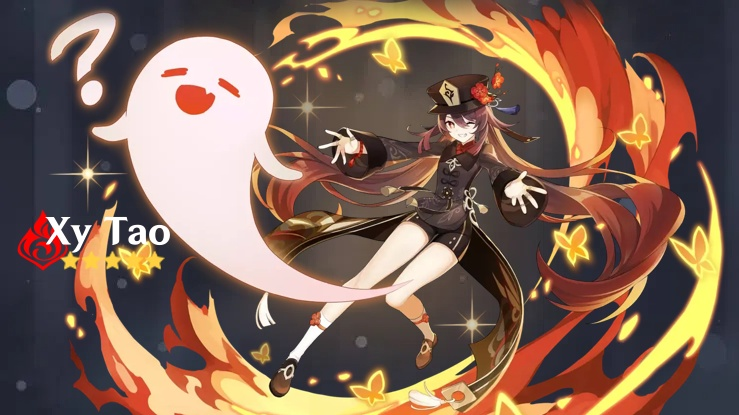
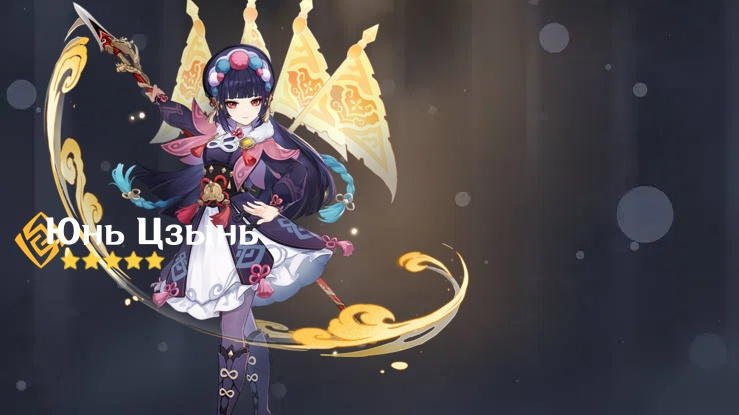
Картинка молитв

diff --git a/image.py b/image.py
@@ -2,39 +2,54 @@ from PIL import Image
 from PIL import ImageFont
 from PIL import ImageDraw
 
-#загрузка фонового изображения
-background = Image.open('photo/banner.png')
+import os
+import sqlite3
 
-#загрузка и изменеине размера фото персонажа
-picture = Image.open('photo/hutao.webp')
-width, height = (picture.size)
-newHeight = 500
-newWidth = width * newHeight // height
-size=(newWidth,newHeight)
-pictureResize = picture.resize(size)
-Image.Image.paste(background, pictureResize, (42, -20), mask=pictureResize)
+dir = os.path.abspath(os.curdir)
 
-#наложение элемента
-pictureelem = Image.open('photo/piro.png')
-width, height = (pictureelem.size)
-newHeight = 70
-newWidth = width * newHeight // height
-size=(newWidth,newHeight)
-pictureResize = pictureelem.resize(size)
-Image.Image.paste(background, pictureResize, (6, 205), mask=pictureResize)
+sqlite_connection = sqlite3.connect('genshin.db')
+cursor = sqlite_connection.cursor()
 
-#наложение текста
-draw = ImageDraw.Draw(background)
-font = ImageFont.truetype("font/Default_JP.ttf", 35)
-draw.text((45, 210),"Ху Тао",(255,255,255),font=font)
+cursor.execute("SELECT id, name, image, rarity, element FROM pers order by id")
 
-#наложение звёздочек
-picturestar = Image.open('photo/5star.png')
-width, height = (picturestar.size)
-newHeight = 20
-newWidth = width * newHeight // height
-size=(newWidth,newHeight)
-pictureResize = picturestar.resize(size)
-Image.Image.paste(background, pictureResize, (60, 250), mask=pictureResize)
+for id, name, image, rarity, element in cursor.fetchall():
+    print(name, rarity, image, element)
 
-background.save('photo/result.jpg', quality=95)
+    #загрузка фонового изображения
+    background = Image.open('photo/banner.png').convert('RGBA')
+    bgwidth, bgheight = (background.size)
+
+    #загрузка и изменеине размера фото персонажа
+    picture = Image.open(dir + image).convert('RGBA')
+    width, height = (picture.size)
+    newHeight = 500
+    newWidth = width * newHeight // height
+    size=(newWidth,newHeight)
+    offset = bgwidth - newWidth
+    pictureResize = picture.resize(size)
+    Image.Image.paste(background, pictureResize, (offset, -20), mask=pictureResize)
+
+    #наложение элемента
+    pictureelem = Image.open('element/' + element +'.png').convert("RGBA")
+    width, height = (pictureelem.size)
+    newHeight = 70
+    newWidth = width * newHeight // height
+    size=(newWidth,newHeight)
+    pictureResize = pictureelem.resize(size)
+    Image.Image.paste(background, pictureResize, (6, 205), mask=pictureResize)
+
+    #наложение текста
+    draw = ImageDraw.Draw(background)
+    font = ImageFont.truetype("font/Default_JP.ttf", 35)
+    draw.text((45, 210),name,(255,255,255),font=font)
+
+    #наложение звёздочек
+    picturestar = Image.open('rarity/' + str(rarity) + 'star' + '.png')
+    width, height = (picturestar.size)
+    newHeight = 20
+    newWidth = width * newHeight // height
+    size=(newWidth,newHeight)
+    pictureResize = picturestar.resize(size)
+    Image.Image.paste(background, pictureResize, (60, 250), mask=pictureResize)
+
+    background.save('pers_banner/' + name + '.png', quality=95, format="png")
